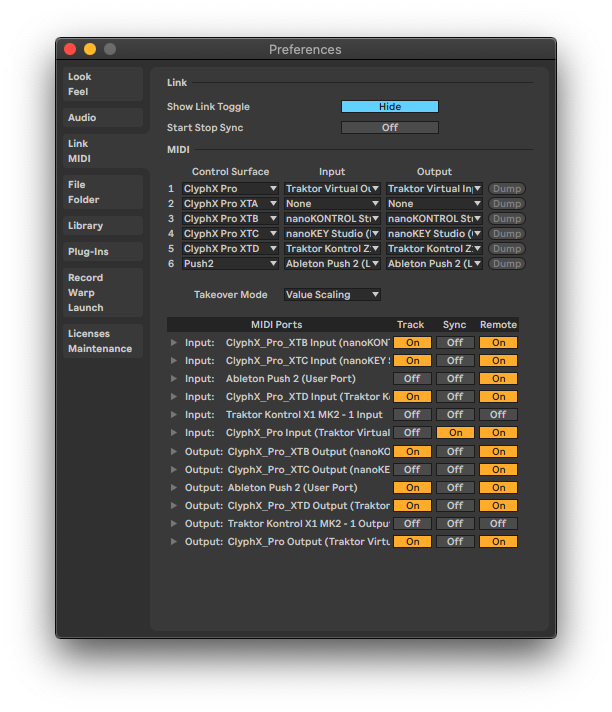
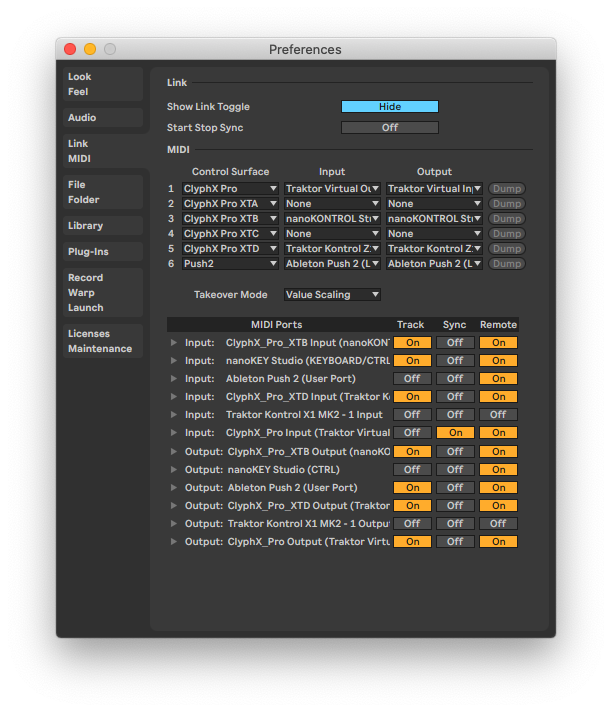
Korg nanoKEY is only used to pitch loops in Traktor

diff --git a/README.md b/README.md
@@ -220,7 +220,7 @@ Part of Traktor Pro 3: <https://support.native-instruments.com/hc/en-us/articles
 
 1. `traktor-pro/clock.tsi` - for MIDI clock sync (TBC - if not for another project)
 1. `traktor-pro/clyphx-pro-v1-0.tsi` - for sending MIDI from Live to Traktor
-1. `traktor-pro/korg-nanokey-studio-v1.tsi` - hot cues and key adjust
+1. `traktor-pro/korg-nanokey-studio-v1.tsi` - key adjust
 1. `traktor-pro/push2-traktor-live.tsi` - Traktor Settings (Preferences > Export)
 1. `traktor-pro/traktor-kontrol-z1-default.tsi` - default mappings (unit is used in MIDI mode)
 
@@ -240,17 +240,7 @@ Part of Traktor Pro 3: <https://support.native-instruments.com/hc/en-us/articles
 * Version: 1.08
 * Editor: <https://www.korg.com/us/support/download/software/1/133/1355/>
 
-##### Ableton Live MIDI setup
-
-* Control Surface: `ClyphX Pro XTC`
-* Input: `nanoKEY Studio`
-  * Track: `On`
-  * Sync: `Off`
-  * Remote: `On`
-* Output: `nanoKEY Studio`
-  * Track: `On`
-  * Sync: `Off`
-  * Remote: `On`
+The nanoKEY is only used to pitch loops in Traktor, via key adjust.
 
 ##### KORG KONTROL Editor configuration files
 
@@ -258,10 +248,6 @@ Part of Traktor Pro 3: <https://support.native-instruments.com/hc/en-us/articles
 2. Set containing all scenes: `korg-kontrol-editor/push2-traktor-live.nanokey_st_set`
 
 Double-click to open the set files, then select Communication > Write Scene Data.
-
-##### nativeKONTROL ClyphX Pro configuration files: XTC
-
-1. `clyphx-pro/ClyphX_Pro/XTC/Encoder Bindings.txt`
 
 ---
 
